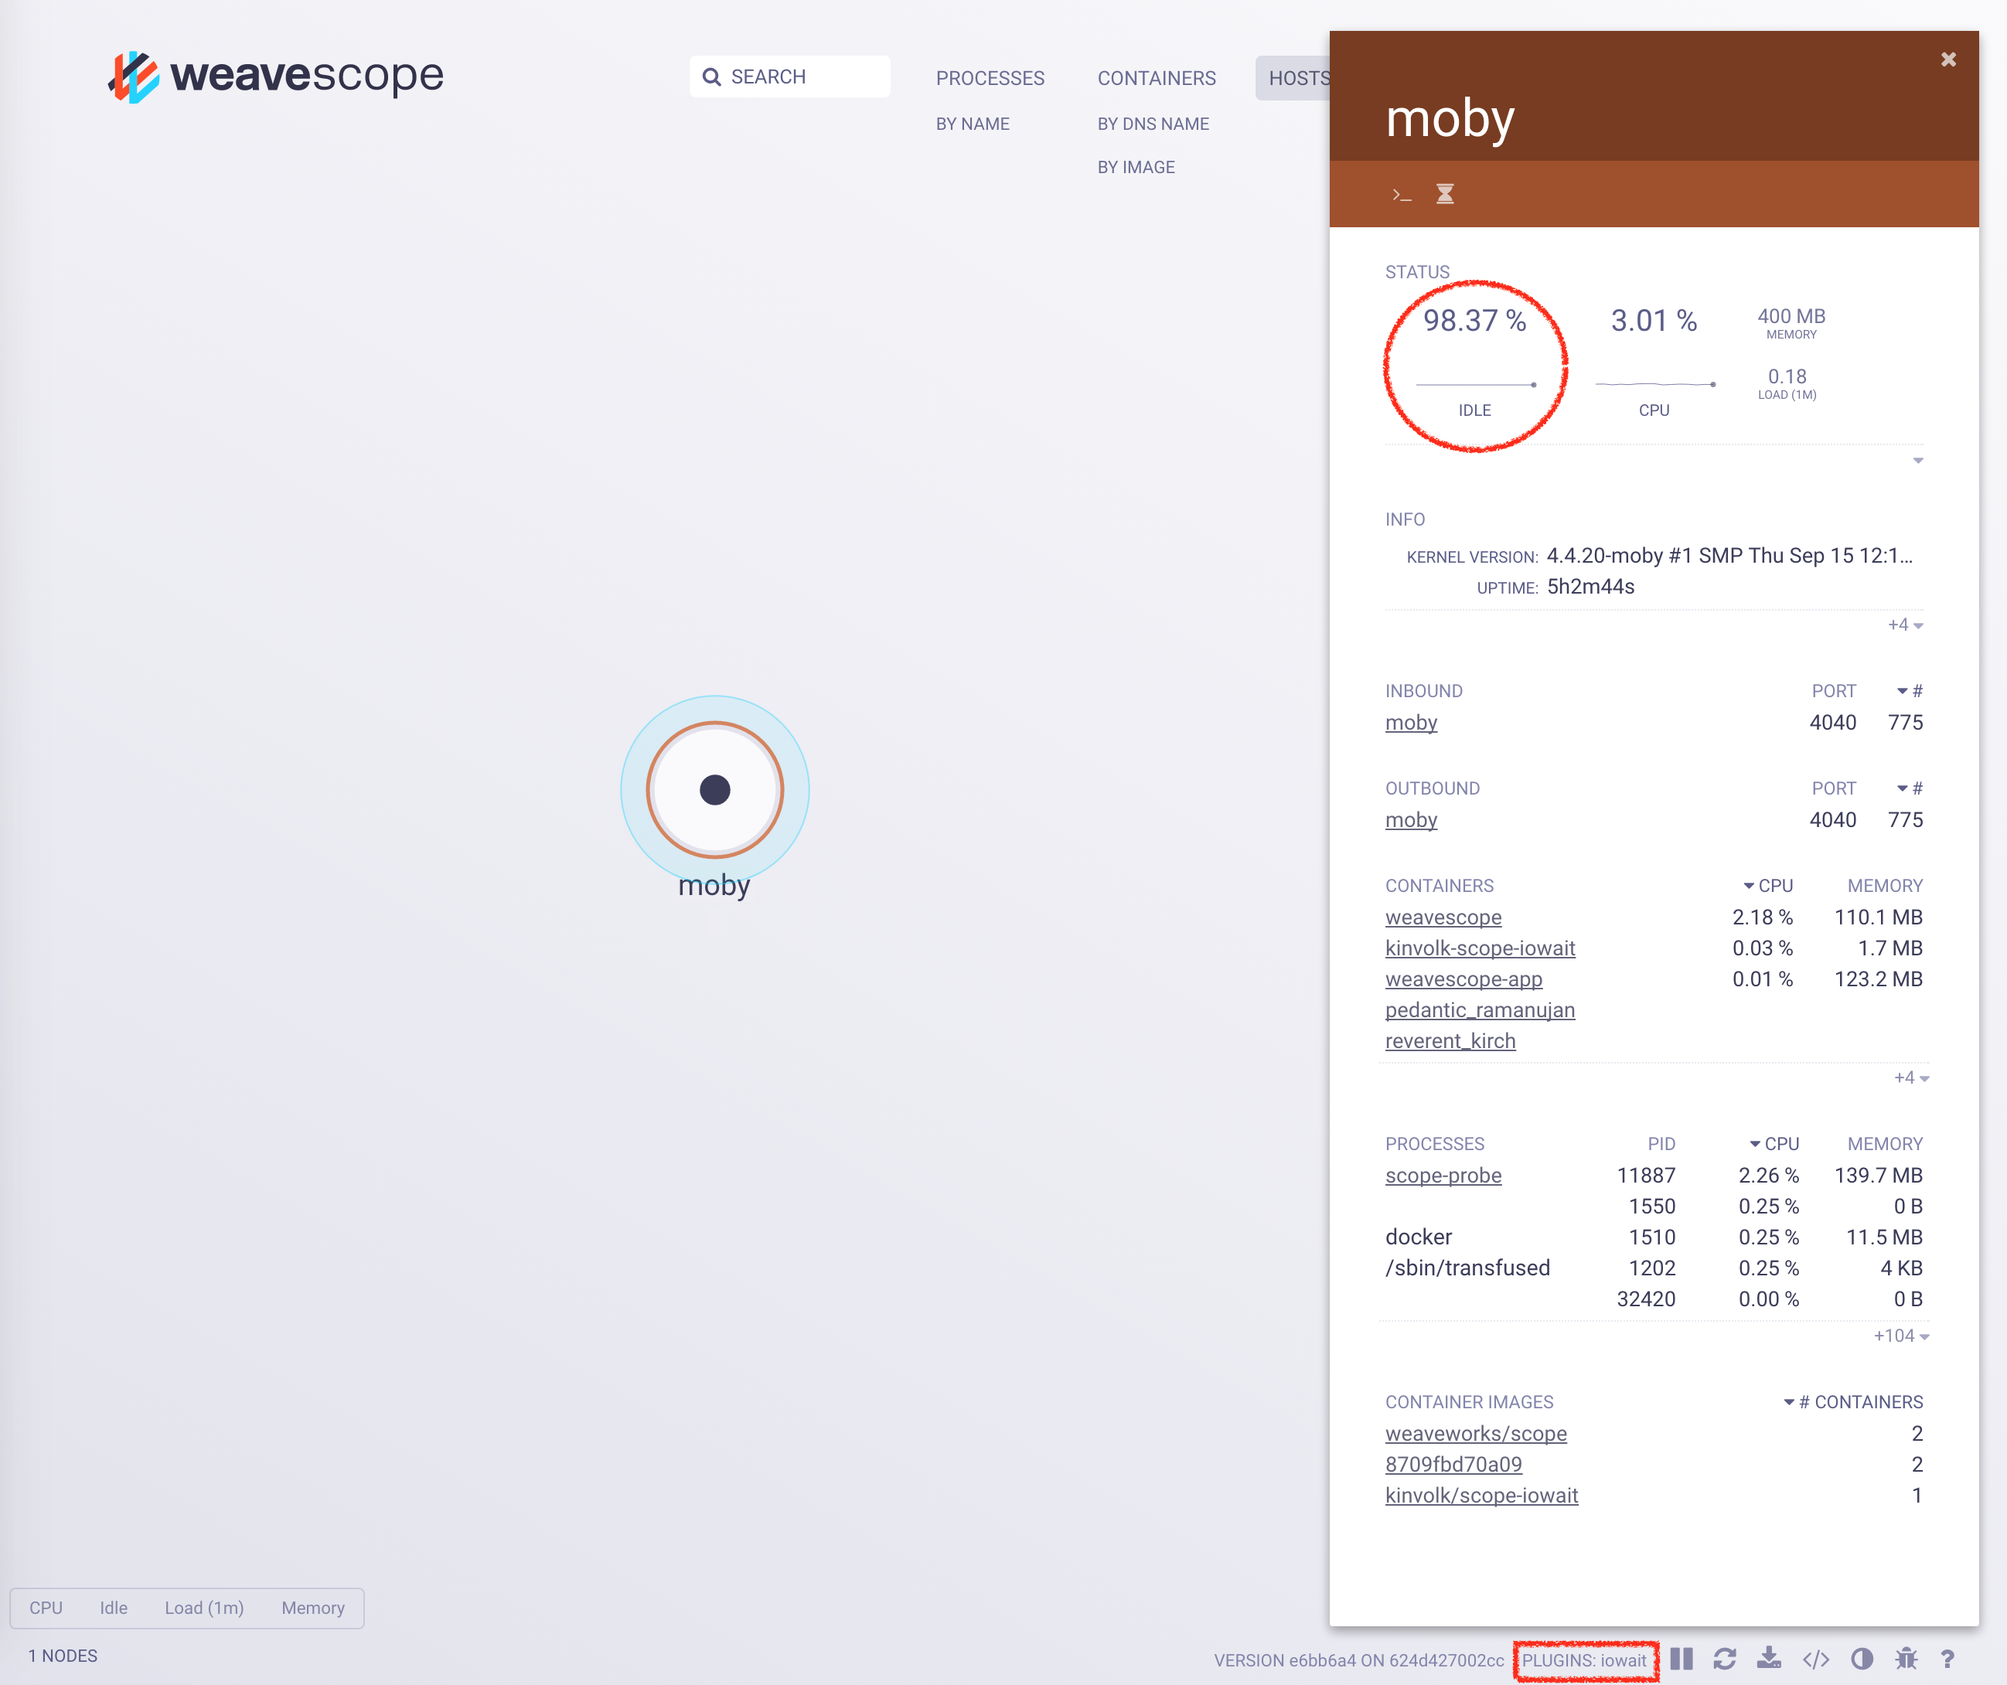
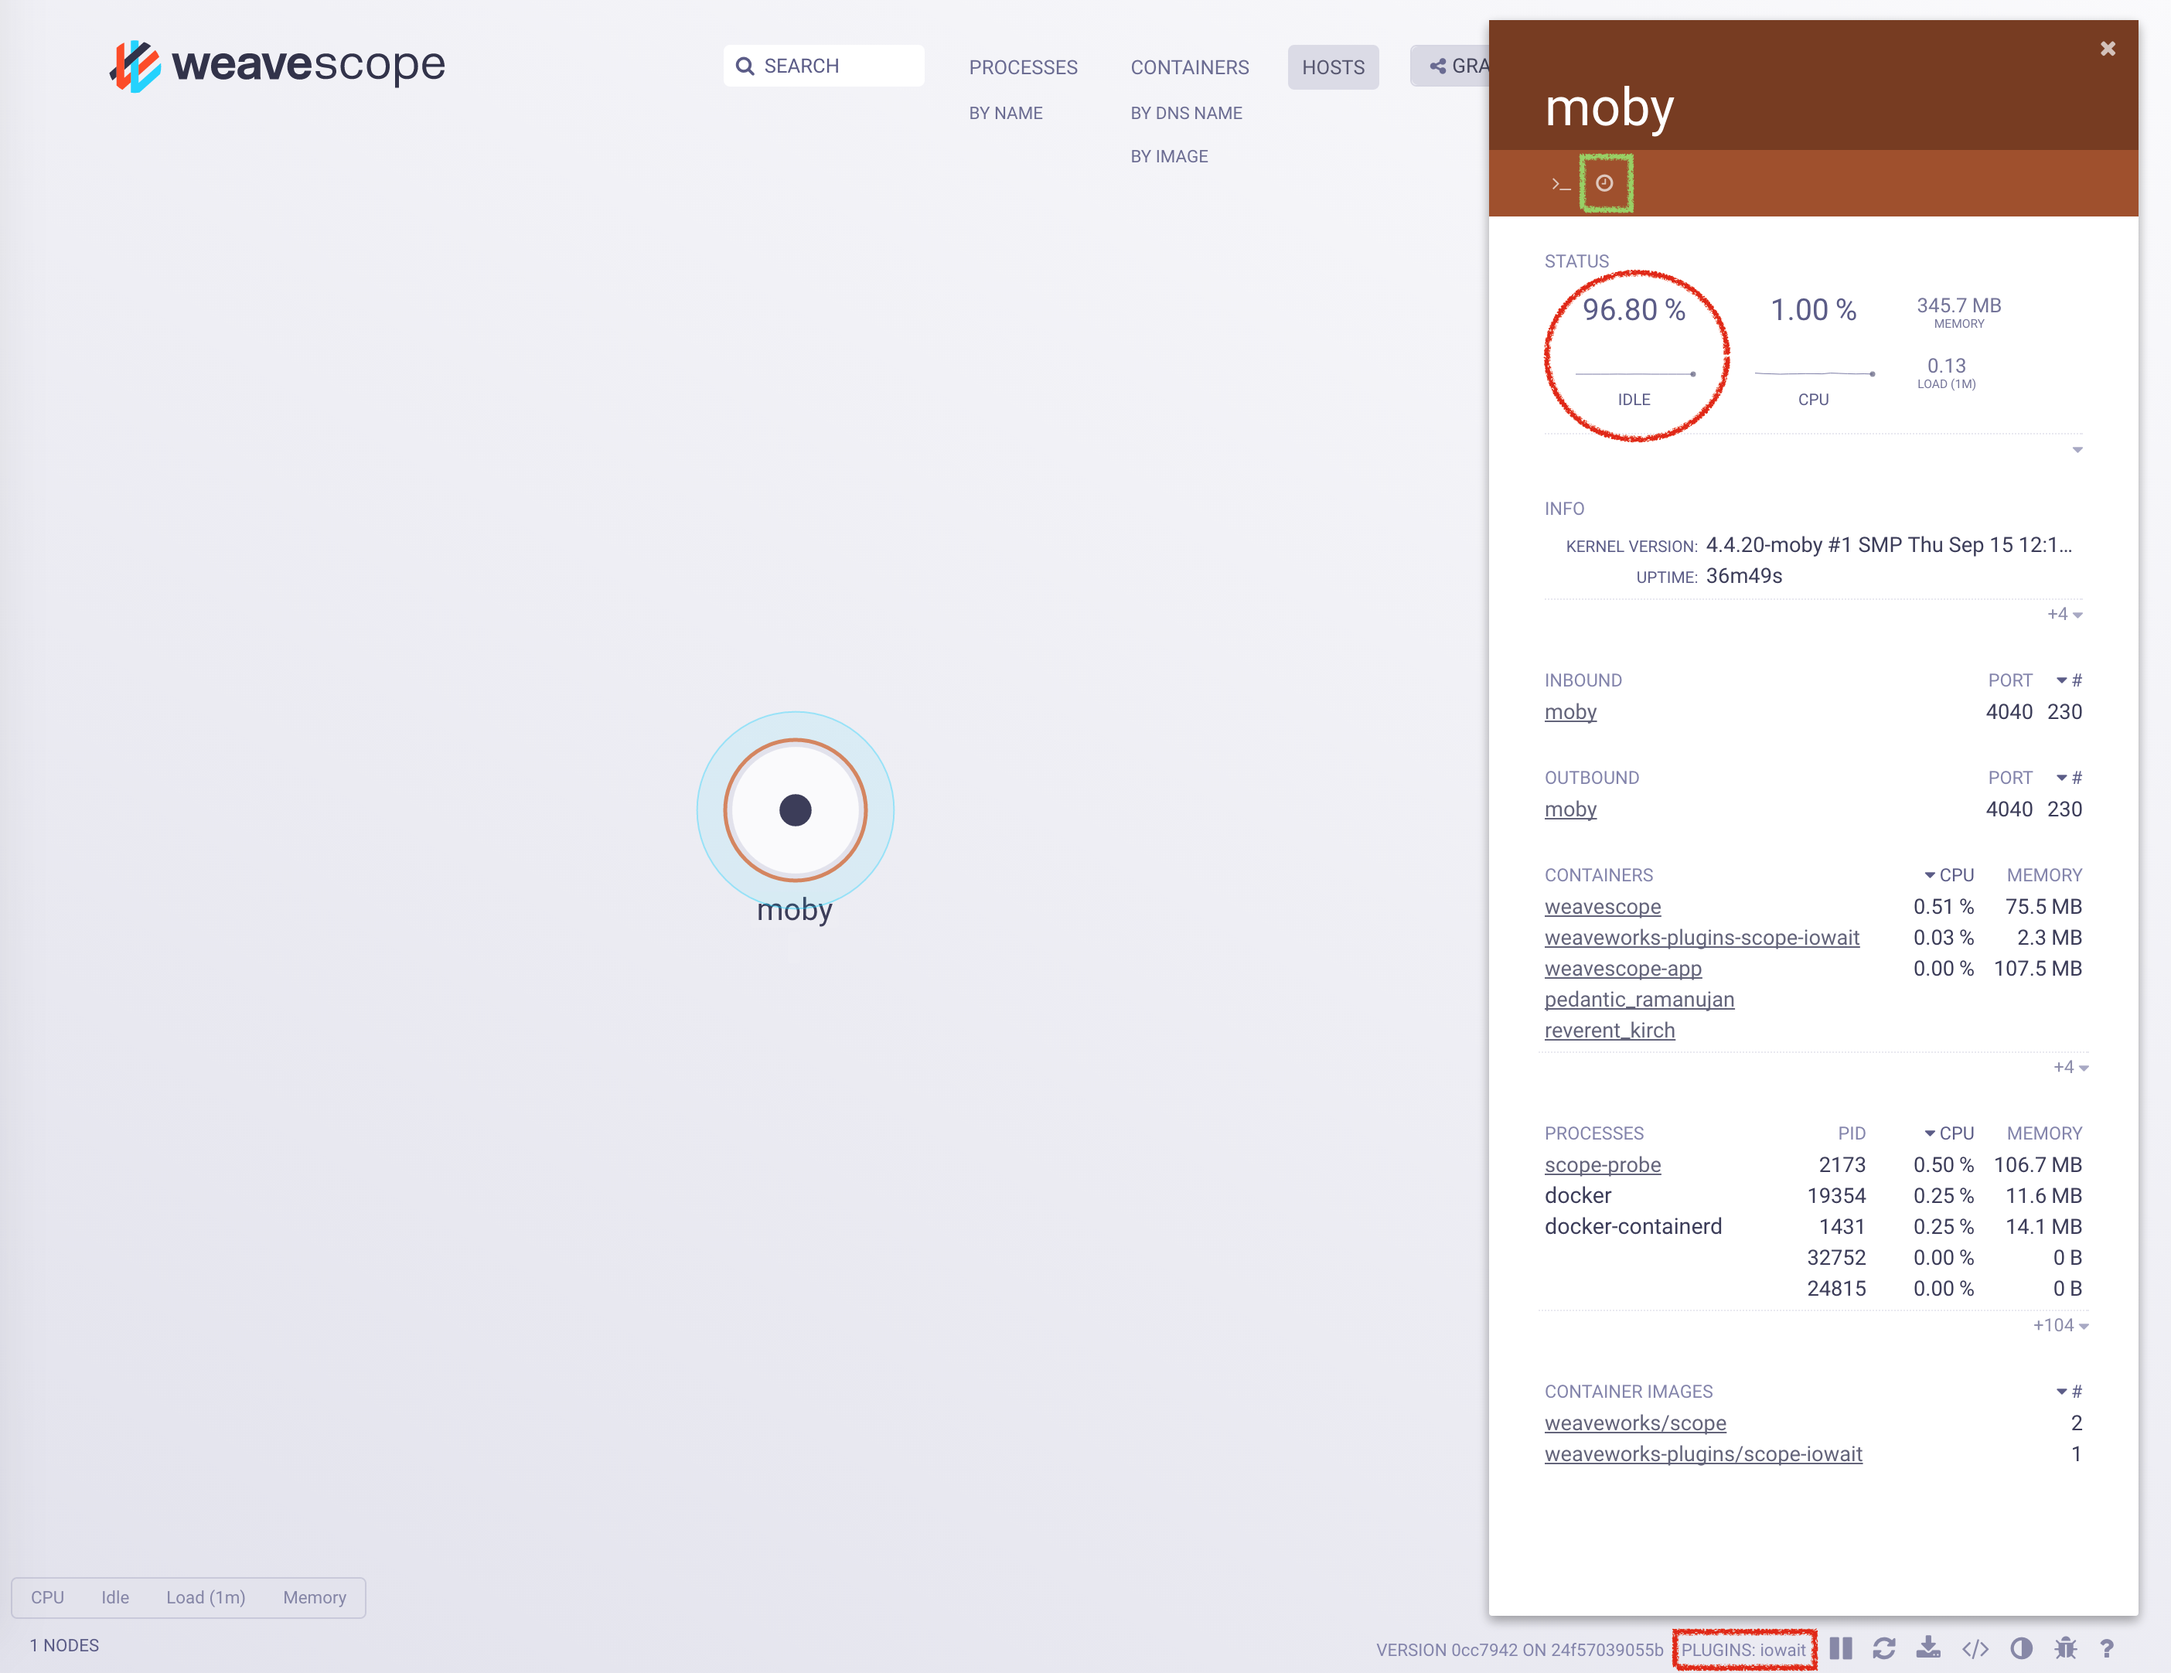
doc: explain iowait controls
Add explaination of control and metrics.

diff --git a/README.md b/README.md
@@ -10,7 +10,7 @@ The Scope IOWait plugin is a GO application that uses [`iostat`](https://linux.d
 
 ```
 docker pull weaveworks-plugins/scope-iowait:latest
-docker run --rm --ti \ 
+docker run --rm -ti \
 	--net=host \
 	-v /var/run/scope/plugins:/var/run/scope/plugins \
 	--name weaveworks-plugins-scope-iowait weaveworks-plugins/scope-iowait:latest
@@ -25,3 +25,12 @@ cd scope-iowait; make;
 
 **Note** If Scope IOWait plugin has been registered by Scope, you will see it in the list of `PLUGINS` in the bottom right of the UI (see the rectangle in the above figure).
 The measured value is showed in the *STATUS* section (see the circle in the above figure).
+
+## How to use Scope IOWait Plugin
+
+The plugin can show in the UI 2 metrics collected by _iostat_:
+
+* Idle: show the percentage of time that the CPU or CPUs were idle and the system did not have an outstanding disk I/O request. This metrics is shown by the default.
+* IO Wait: Show the percentage of time that the CPU or  CPUs  were idle  during  which  the system had an outstanding disk I/O request.
+
+To switch between metrics you can use the controls. The `clock` icon (see green box in the above figure) switches to IO Wait metric and the `gears` icon switches to idle metric.
